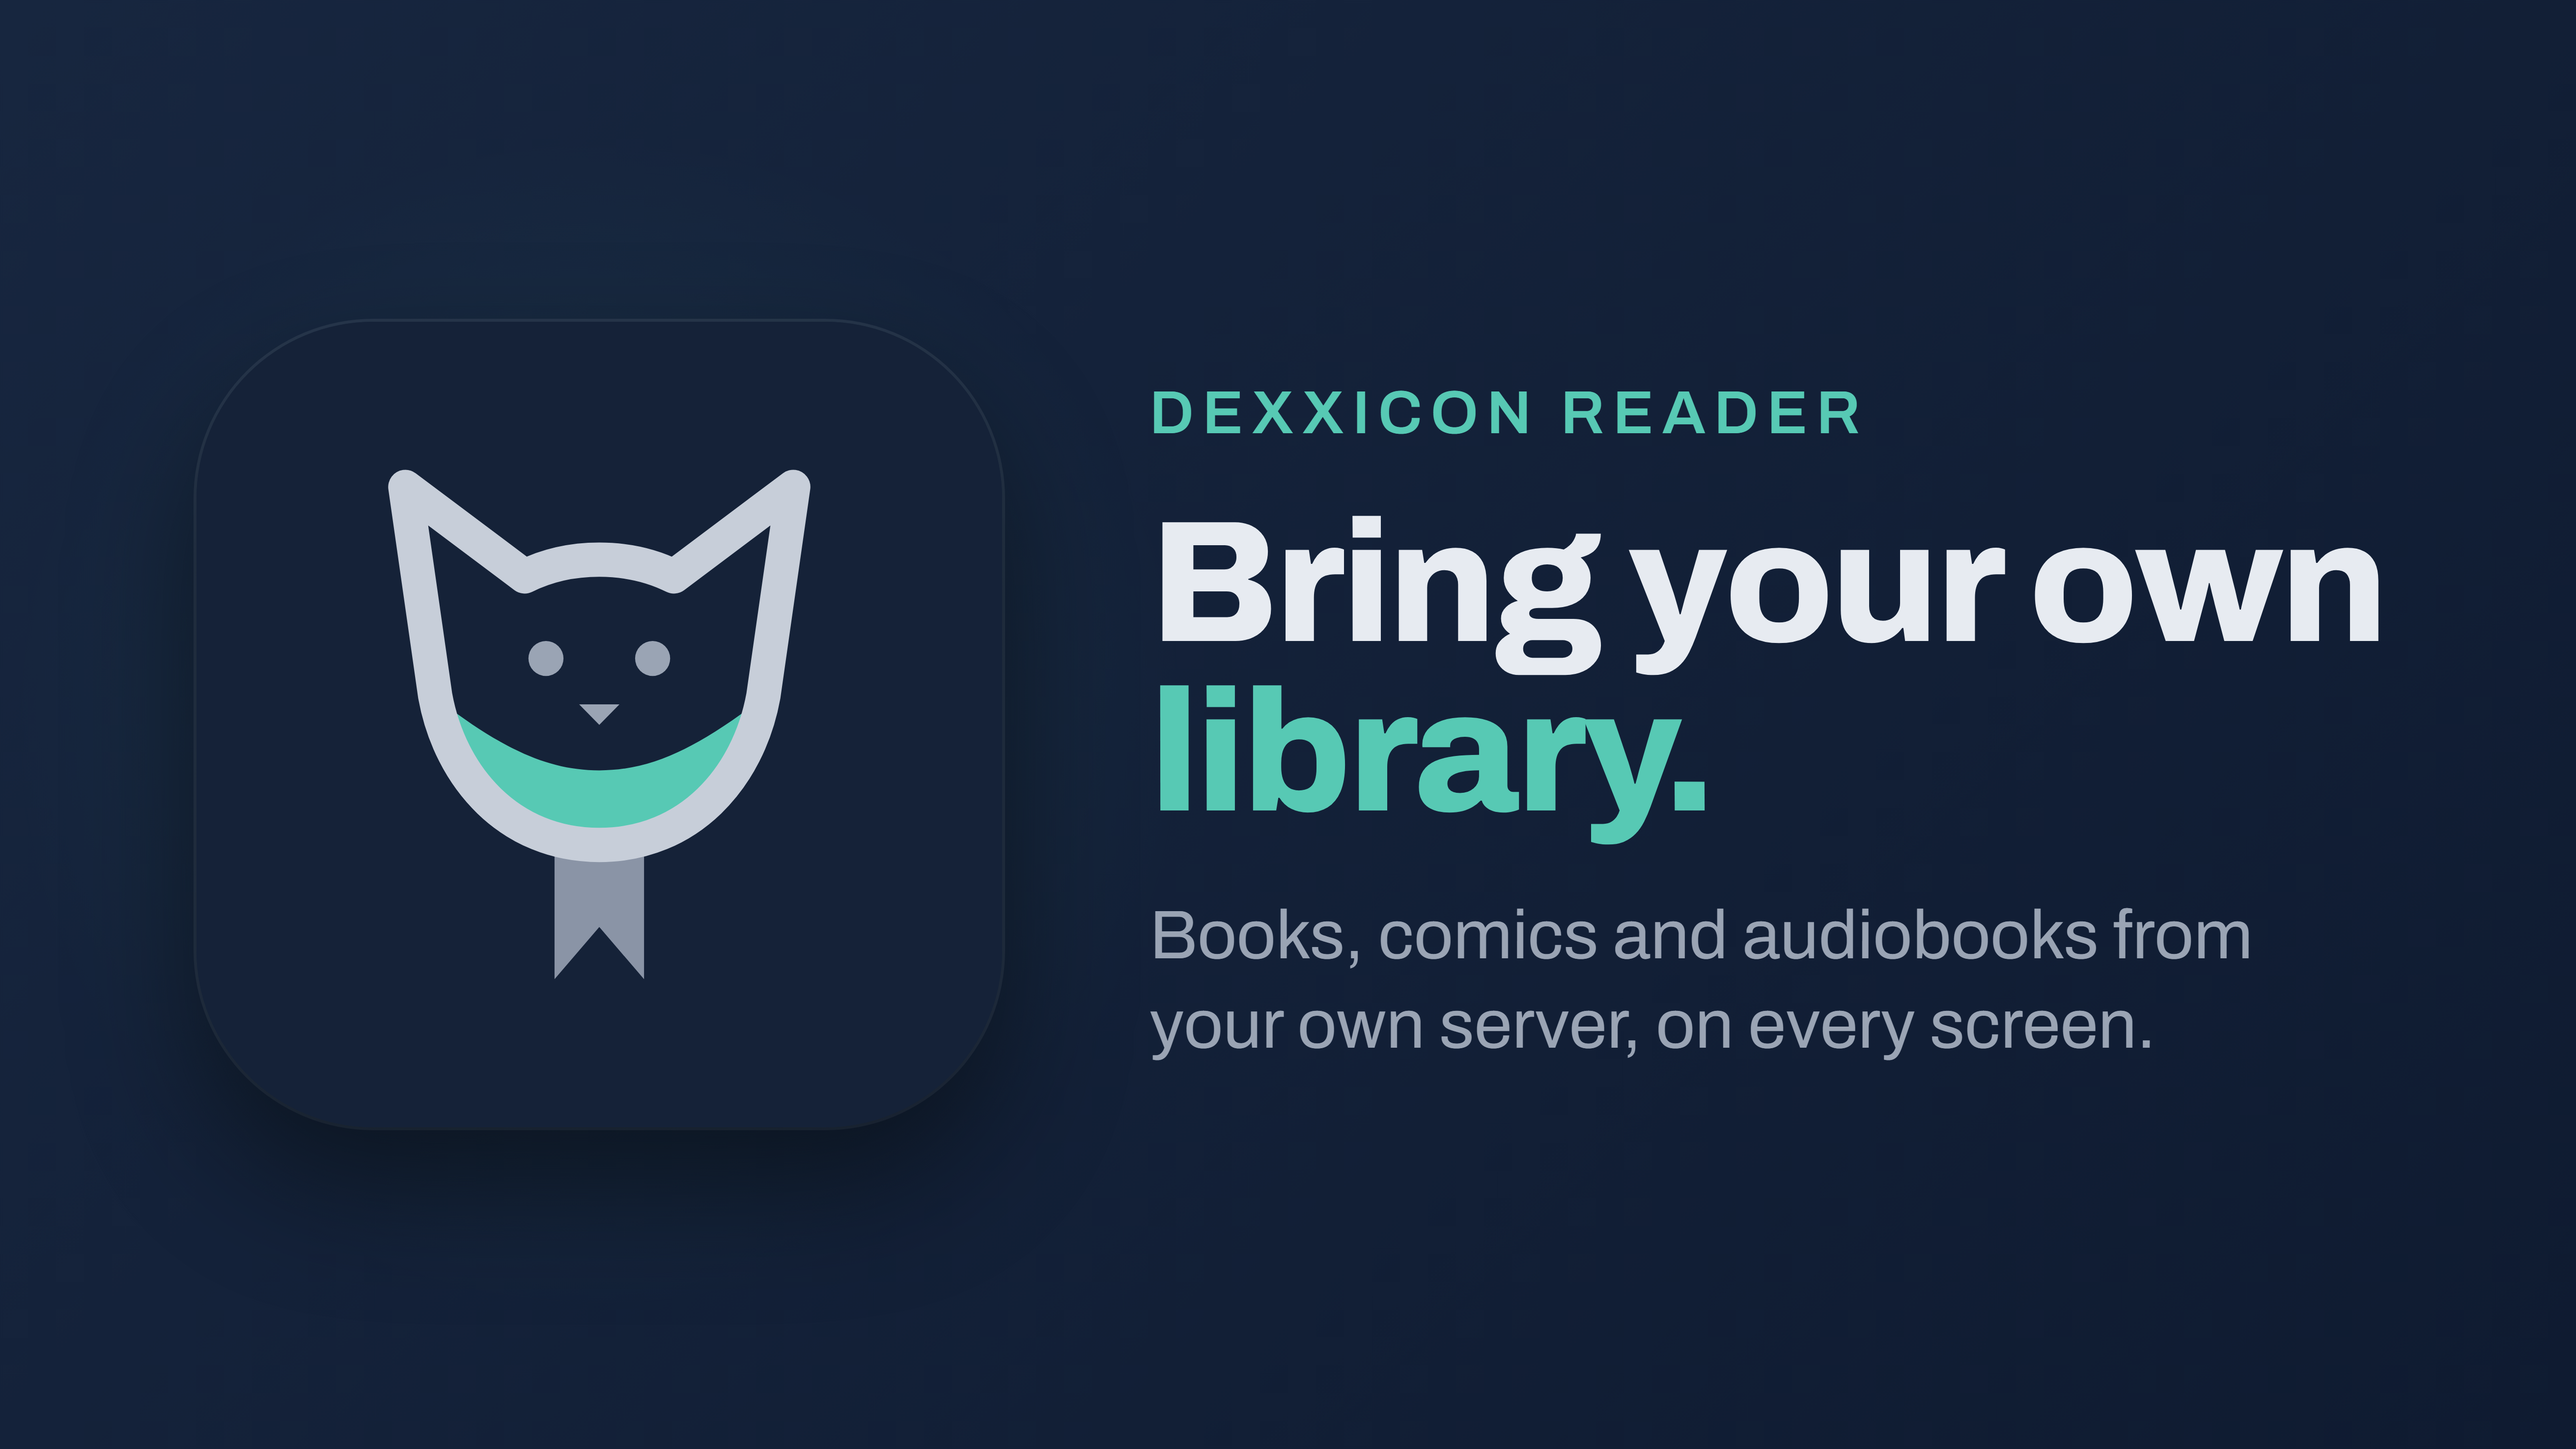
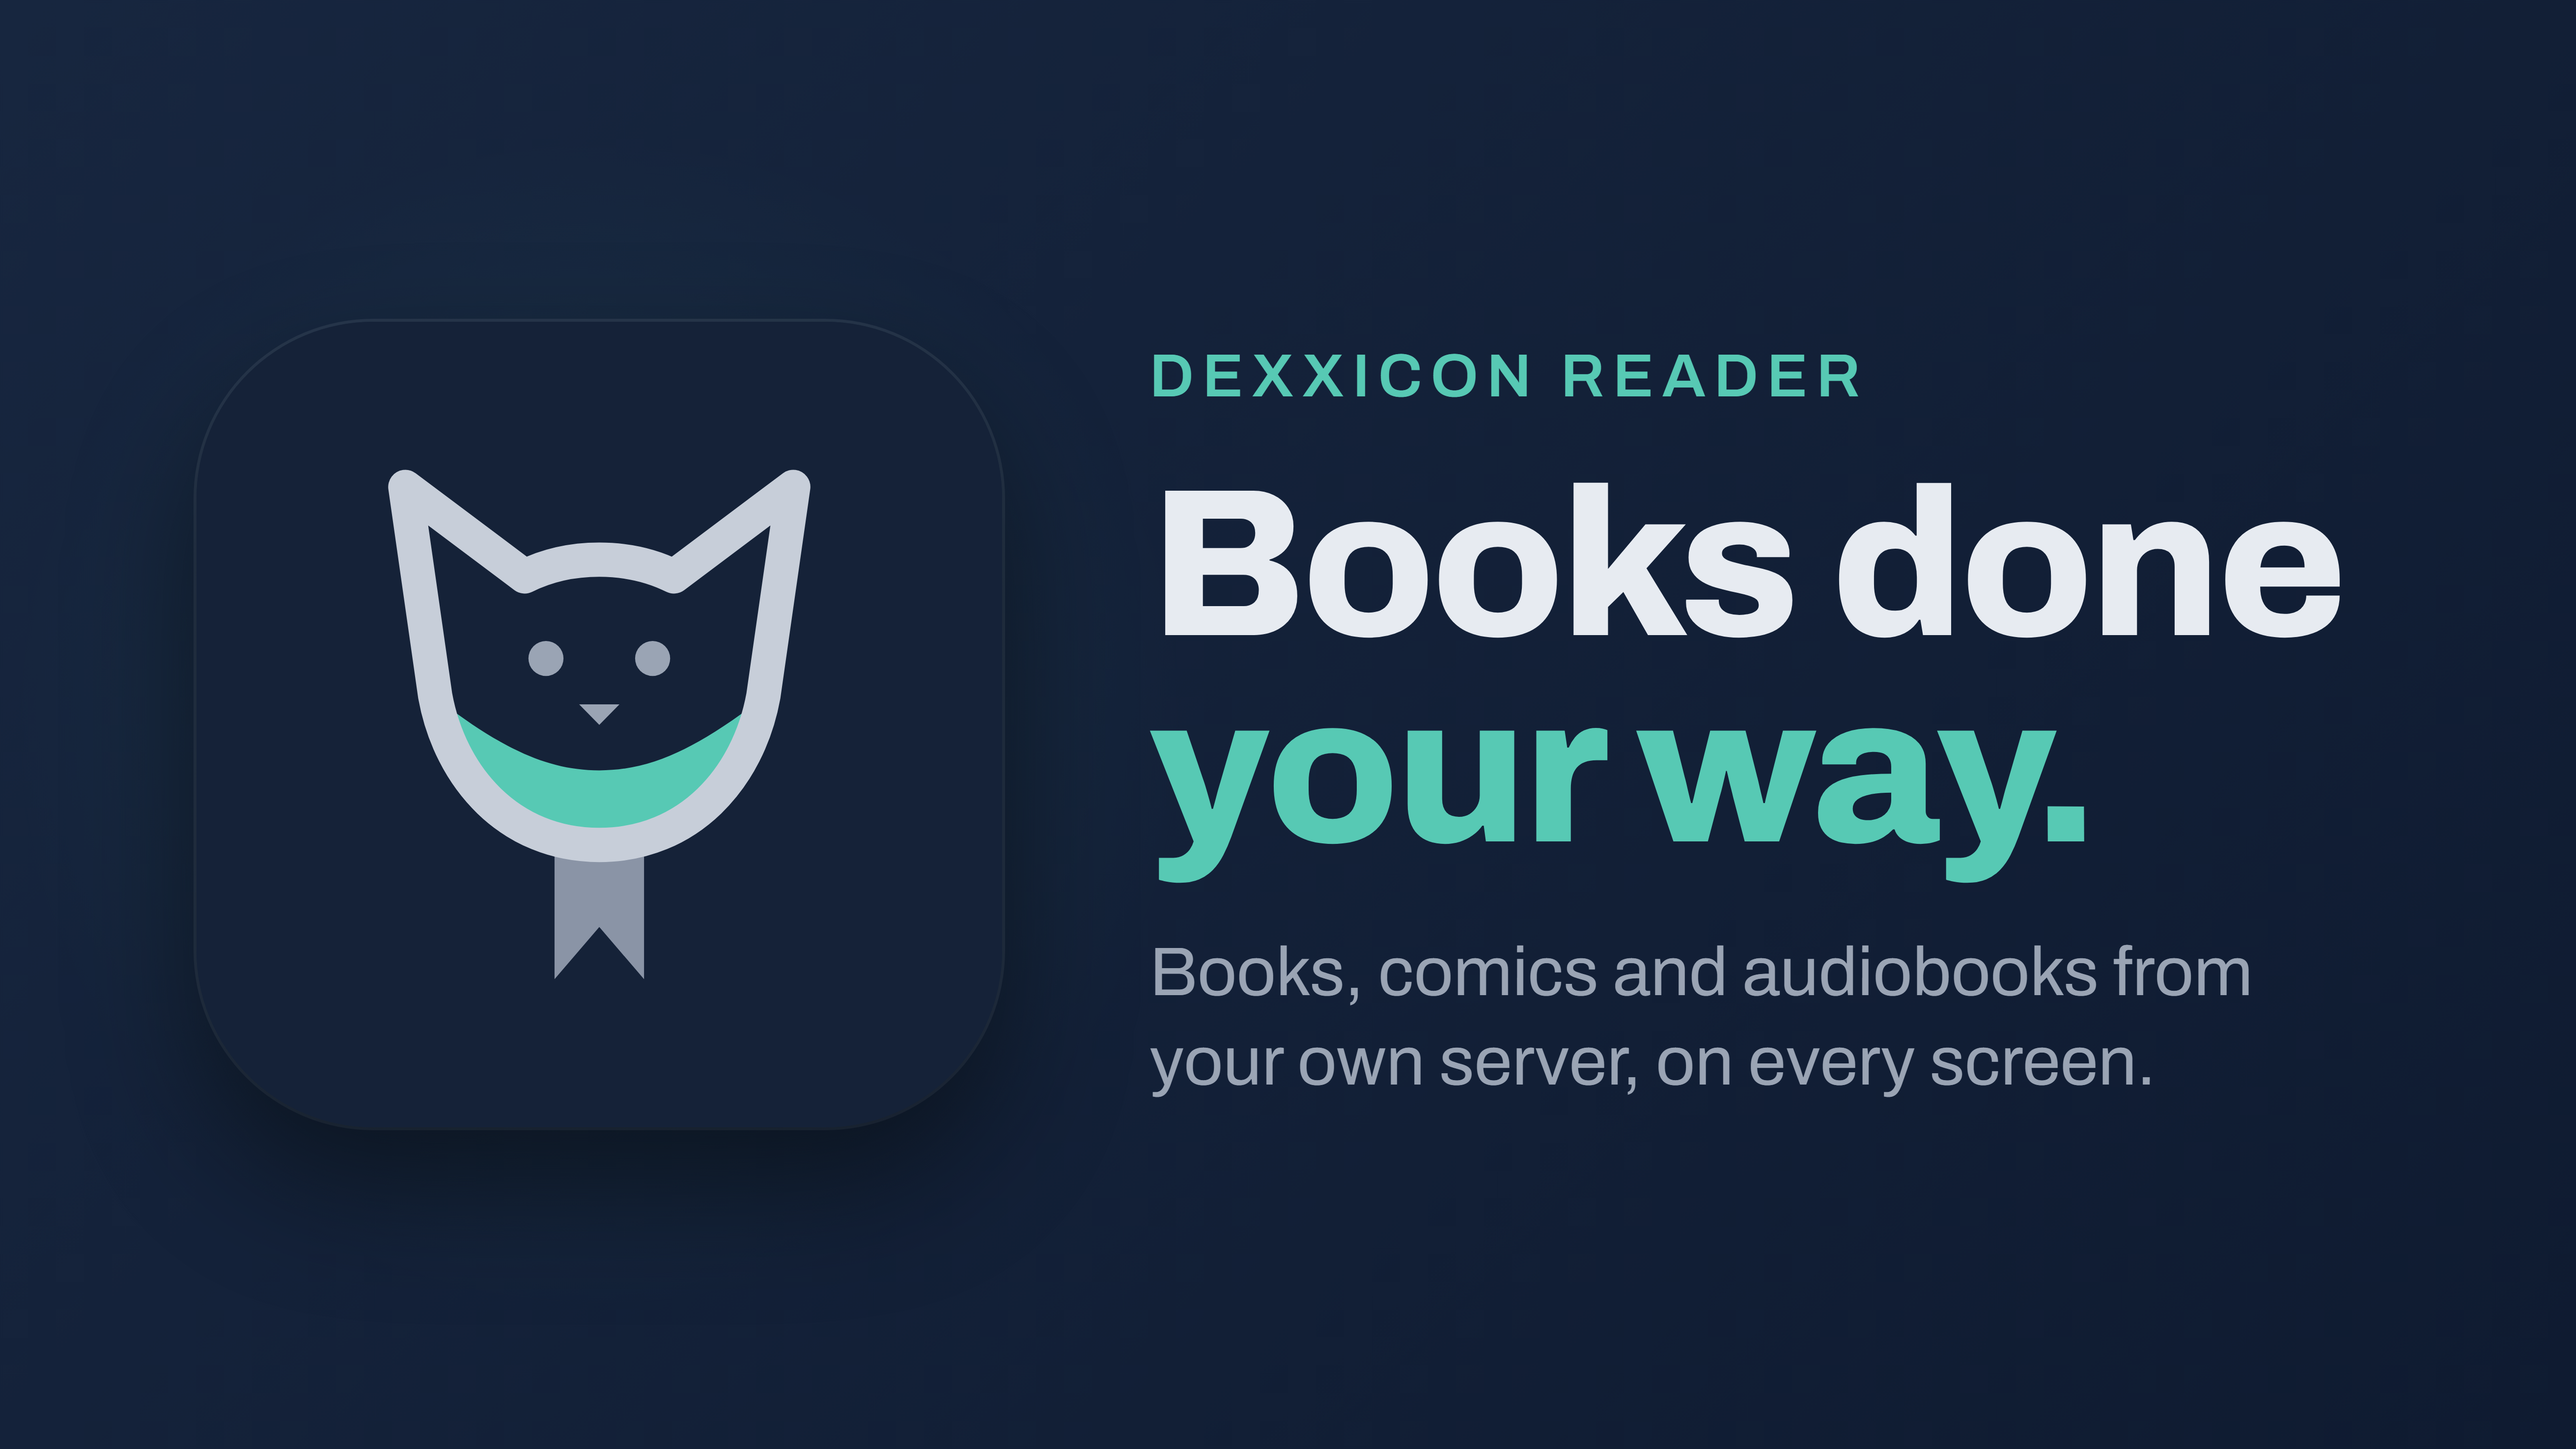
App store header: "Books done / your way." (#330)
Per the user: the headline is "Books done" in white with "your way." in aqua beneath, set a
little larger (214px at layout scale) since the lines are shorter.

Changed region(s): [[0.4352, 0.4678, 0.8703, 0.7485], [0.4352, 0.2183, 0.9325, 0.4678]]

diff --git a/branding/app-store-header.html b/branding/app-store-header.html
@@ -33,7 +33,7 @@
   .icon svg { display: block; width: 100%; height: 100%; }
   .copy { display: grid; gap: 54px; }
   .eyebrow { font-weight: 600; font-size: 62px; letter-spacing: 0.14em; text-transform: uppercase; color: var(--aqua); }
-  h1 { margin: 0; font-weight: 800; font-size: 176px; line-height: 0.98; letter-spacing: -0.02em; }
+  h1 { margin: 0; font-weight: 800; font-size: 214px; line-height: 0.98; letter-spacing: -0.02em; }
   h1 .aqua { color: var(--aqua); }
   h1 .nowrap { white-space: nowrap; }
   p { margin: 0; font-size: 70px; line-height: 1.3; color: var(--muted); max-width: 1320px; text-wrap: balance; }
@@ -55,7 +55,7 @@
   </div>
   <div class="copy">
     <div class="eyebrow">Dexxicon Reader</div>
-    <h1><span class="nowrap">Bring your own</span><br><span class="aqua">library.</span></h1>
+    <h1><span class="nowrap">Books done</span><br><span class="aqua">your way.</span></h1>
     <p>Books, comics and audiobooks from your own server, on every screen.</p>
   </div>
 </body></html>
